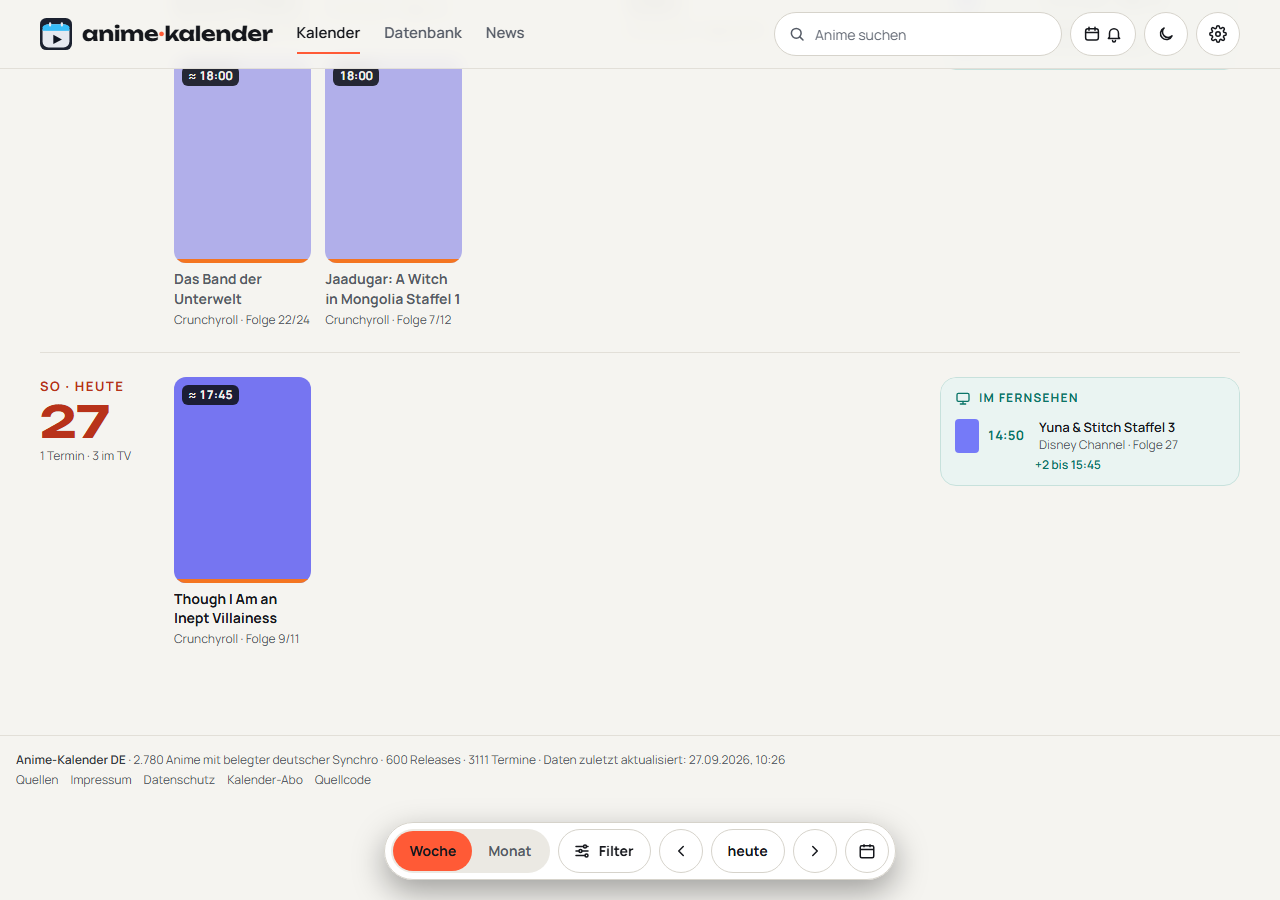
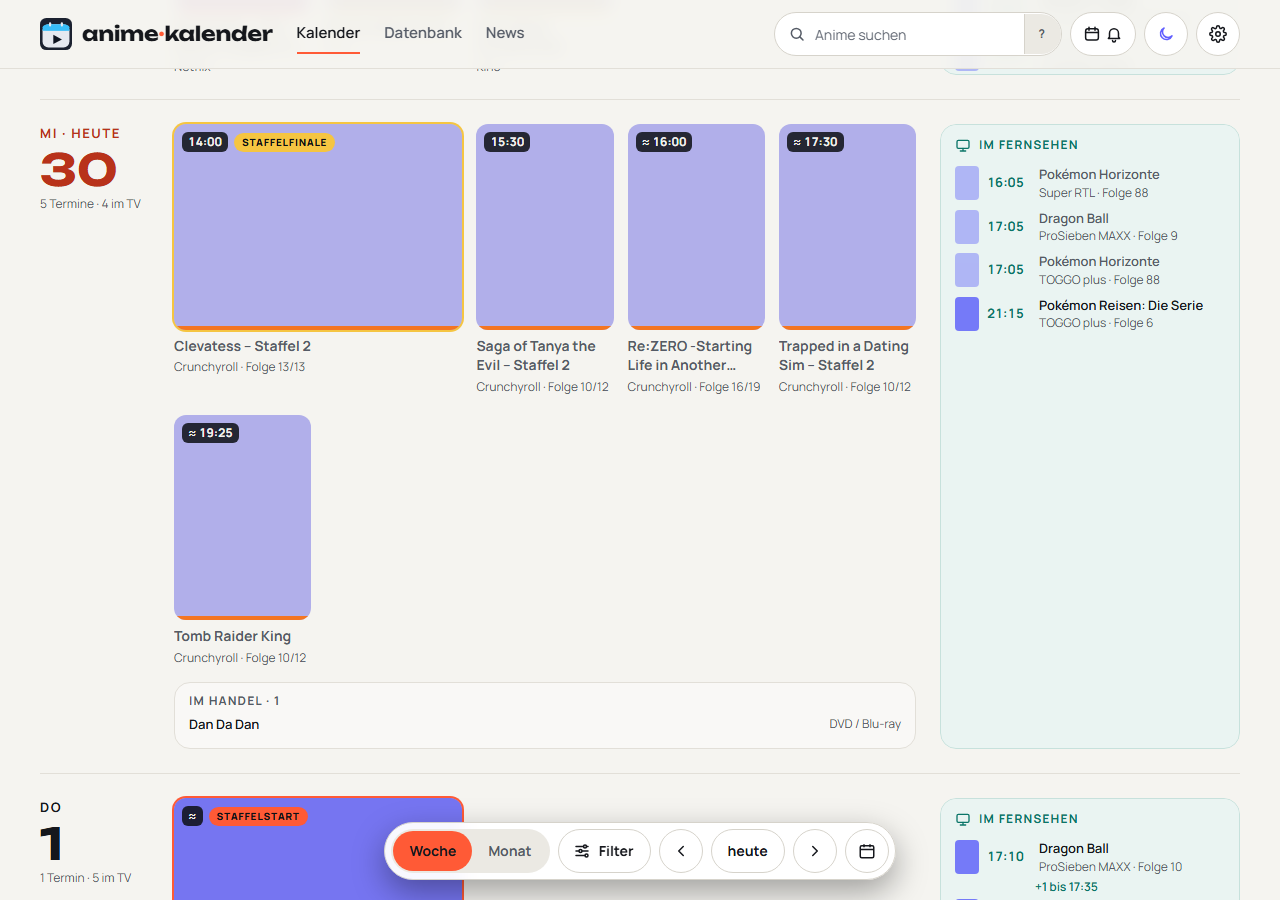
feat(woche): Disc-Termine als kompakter Bereich 'Im Handel' (Daniels Wahl A), TV-Kasten fuellt die Zeilenhoehe
- Disc-Termine (releaseType disc) sind ein eigener Topf in tageDerWoche und
  stehen nicht mehr als Poster im Raster; unter dem Raster eine kompakte Liste
  (Titel + DVD/Blu-ray) mit Kopf 'Im Handel - N'. Der Tageszaehler zaehlt sie
  nicht mehr als Termine.
- Der Fernseh-Kasten fuellt jetzt wirklich die Zeilenhöhe (h-full im absolut
  positionierten Rahmen), waechst also mit, wenn die Mittelspalte waechst.
- Zwei Prototypen (A kompakte Liste, D gedaempfte Poster) wurden gerendert und
  Daniel vorgelegt; er waehlte A. Bilder docs/woche-im-handel*.png.
- Wissen in docs/wissen/datensatz.md nachgezogen.

diff --git a/web/src/components/WeekView.tsx b/web/src/components/WeekView.tsx
@@ -10,7 +10,7 @@ import { buendeleTermine } from '../lib/buendel.ts'
 import { gesehenLesen, neuesteErschienen, neuSeitGesehen } from '../lib/gesehen.ts'
 import { PosterKarte, type KartenArt } from './kalender/PosterKarte.tsx'
 import { TvKasten } from './kalender/TvKasten.tsx'
-import { zaehlung } from './kalender/Marken.tsx'
+import { anbieterUndFolge, zaehlung } from './kalender/Marken.tsx'
 
 /** Ohne Uhrzeit hinter alles mit — ziffernbasiert, damit jede Kollation es hinten einsortiert. */
 const OHNE_UHRZEIT = '99:99'
@@ -18,11 +18,15 @@ const OHNE_UHRZEIT = '99:99'
 export interface Tag {
   date: string
   stream: ReleaseEvent[]
+  /** Disc-Termine — eigener Topf (Prototyp 30.09.2026). */
+  disc: ReleaseEvent[]
   tv: ReleaseEvent[]
   /** Für den Sprung zu heute: Streaming-Termine mit und ohne Uhrzeit. */
   timed: ReleaseEvent[]
   untimed: ReleaseEvent[]
 }
+
+
 
 function nachZeit(a: ReleaseEvent, b: ReleaseEvent): number {
   return (a.time ?? OHNE_UHRZEIT).localeCompare(b.time ?? OHNE_UHRZEIT) || a.name.localeCompare(b.name, 'de')
@@ -34,10 +38,13 @@ export function tageDerWoche(events: ReleaseEvent[], monday: string): Tag[] {
   return Array.from({ length: 7 }, (_, i) => {
     const date = addDays(monday, i)
     const alle = (byDate.get(date) ?? []).slice().sort(nachZeit)
-    const stream = alle.filter((e) => e.platform !== 'tv')
+    /* Disc-Termine sind eine eigene Sorte: weniger interessant, gehören nicht in den Stream-Zähler. */
+    const disc = alle.filter((e) => e.releaseType === 'disc')
+    const stream = alle.filter((e) => e.platform !== 'tv' && e.releaseType !== 'disc')
     return {
       date,
       stream,
+      disc,
       tv: alle.filter((e) => e.platform === 'tv'),
       timed: stream.filter((e) => e.time),
       untimed: stream.filter((e) => !e.time),
@@ -115,7 +122,10 @@ function TagZeile({
       ].join(' ')}
     >
       <TagKopf tag={tag} heute={heute} tvAn={p.tvAn} />
-      <PosterRaster tag={tag} p={p} heute={heute} now={now} landingId={landingId} landingRef={landingRef} />
+      <div className="flex min-w-0 flex-col gap-4">
+        <PosterRaster tag={tag} p={p} heute={heute} now={now} landingId={landingId} landingRef={landingRef} />
+        <DiscKasten termine={tag.disc} hidden={p.hidden} onOpen={p.onOpen} />
+      </div>
       {zeigeTv && (
         <div className="relative lg:min-h-0">
           <div className="lg:absolute lg:inset-0 lg:overflow-y-auto lg:rounded-2xl">
@@ -174,7 +184,7 @@ function PosterRaster({
   const gruppen = buendeleTermine(tag.stream, (ev) => !!ev.verpasst || !!art(ev))
   return (
     <div className="grid grid-cols-2 content-start gap-x-3 gap-y-5 sm:grid-cols-[repeat(auto-fill,minmax(128px,1fr))] sm:gap-x-3.5 lg:min-h-[250px]">
-      {tag.stream.length === 0 && (p.gefiltert || !tag.tv.length) && (
+      {tag.stream.length === 0 && tag.disc.length === 0 && (p.gefiltert || !tag.tv.length) && (
         <p className="col-span-full pt-1 text-sm text-ak-sehr-leise">{t(p.gefiltert ? 'kal.nichtsGefiltert' : 'kal.keinTermin')}</p>
       )}
       {gruppen.map(([ev, ...weitere]) => {
@@ -197,6 +207,47 @@ function PosterRaster({
           />
         )
       })}
+    </div>
+  )
+}
+
+/**
+ * **„Im Handel" als kompakte Liste** (30.09.2026, Daniels Wahl) — wie „Im Fernsehen", nur unter dem
+ * Raster der Mittelspalte statt in einer eigenen Spalte. Disc-Termine werden damit ruhig, ohne mit
+ * dem Fernseh-Kasten um Platz zu kämpfen; der Kopf zählt sie nicht mehr als Streaming-Termine.
+ */
+function DiscKasten({
+  termine,
+  hidden,
+  onOpen,
+}: {
+  termine: ReleaseEvent[]
+  hidden: Set<number>
+  onOpen: (slug: string, date: string) => void
+}) {
+  const { t } = useLang()
+  if (!termine.length) return null
+  return (
+    <div className="flex flex-col gap-0.5 rounded-2xl border border-ak-linie bg-ak-flaeche/40 px-3.5 py-2.5">
+      <h3 className="flex items-center gap-2 text-xs font-bold tracking-[0.1em] text-ak-leise uppercase">
+        {t('card.inStores')} · {termine.length}
+      </h3>
+      <ul className="flex flex-col">
+        {termine.map((ev) => (
+          <li key={ev.id}>
+            <button
+              type="button"
+              onClick={() => onOpen(ev.releaseSlug, ev.date)}
+              className="flex w-full cursor-pointer items-center gap-2 rounded-lg py-1 text-left text-[13px] transition hover:bg-ak-flaeche-2"
+            >
+              <span className="min-w-0 flex-1 truncate font-semibold text-ak-text">
+                {hidden.has(ev.titleId) ? <span className="text-ak-sehr-leise italic">{ev.name}</span> : ev.name}
+              </span>
+              <span className="shrink-0 text-xs text-ak-leise">{anbieterUndFolge(ev, t)}</span>
+            </button>
+          </li>
+        ))}
+      </ul>
     </div>
   )
 }

diff --git a/web/src/components/kalender/TvKasten.tsx b/web/src/components/kalender/TvKasten.tsx
@@ -39,7 +39,7 @@ export function TvKasten({
   )
   if (kompakt) return liste
   return (
-    <div className="flex flex-col gap-0.5 rounded-2xl border border-ak-tv-rand bg-ak-tv-grund px-3.5 py-3">
+    <div className="flex h-full flex-col gap-0.5 rounded-2xl border border-ak-tv-rand bg-ak-tv-grund px-3.5 py-3">
       {/* Klebt oben, wenn der Kasten in Zeilenhöhe rollt — sonst verschwände mit dem Kopf auch der Hinweis, was hier steht. */}
       <h3 className="sticky top-0 z-[1] -mx-3.5 -mt-3 flex items-center gap-2 rounded-t-2xl bg-ak-tv-grund px-3.5 pt-3 pb-1.5 text-xs font-bold uppercase tracking-[0.1em] text-ak-tv">
         <FernsehZeichen groesse={16} />

diff --git a/docs/wissen/datensatz.md b/docs/wissen/datensatz.md
@@ -358,8 +358,12 @@ https://claude.ai/artifact/AEJUirTAgvme2kH4m8uHpH) und sie in zwei Runden kommen
   dort im Einstellungsdialog, sonst passte der Name nicht in die Leiste.
 - **Woche:** je Tag eine Zeile — Tag, Cover-Raster (`repeat(auto-fill, minmax(128px, 1fr))`, auf
   dem Handy genau zwei Spalten, immer in Zeitreihenfolge — `grid-flow-dense` würfelte sie durcheinander,
-  eine Lücke vor einer breiten Kachel wird hingenommen), rechts „Im Fernsehen“. Der TV-Kasten füllt absolut die Zeilenhöhe
-  und scrollt darin; bricht die Poster-Reihe um, wird er mit ihr höher.
+  eine Lücke vor einer breiten Kachel wird hingenommen), darunter **„Im Handel“** als kompakte Liste
+  (Titel + „DVD / Blu-ray“), rechts „Im Fernsehen“. **Disc-Termine sind seit dem 30.09.2026 kein
+  Poster im Raster mehr** (Daniels Wahl nach zwei Prototypen): Sie sind zu viele und zu wenig
+  interessant, und als Liste kämpfen sie nicht mit dem Fernseh-Kasten um Platz. Der TV-Kasten füllt
+  die Zeilenhöhe (`h-full` im absolut positionierten Rahmen) und scrollt darin; wächst die
+  Mittelspalte durch den Disc-Kasten, wächst er mit. Bilder: `docs/woche-im-handel*.png`.
 - **Staffelstart und Staffelfinale** nehmen zwei Spalten ein, das Cover füllt die Breite, der Text
   steht wie bei jeder Kachel darunter (Daniel: kein geteiltes Cover/Text). `istStaffelfinale()`:
   wöchentlich, nicht TV, nicht `available-from`, `episode === episodeCount`, kein
@@ -369,9 +373,10 @@ https://claude.ai/artifact/AEJUirTAgvme2kH4m8uHpH) und sie in zwei Runden kommen
   per Klick) die Ausstrahlungen. Ein Klick auf die Tageszahl springt in der Woche zu diesem Tag
   (`lib/ziel-tag.ts`). Unter `sm` ist die ganze Zelle ein Knopf, der den Tag aufklappt — Cover
   von 22 px wären kein Touch-Ziel.
-- **Zählung** je Tag und Monat: „8 Termine · 9 im TV“ (`zaehlung()`); Termine sind alles außer
-  Fernsehen, also auch Disc und Kino. Eine Null entfällt, der leere Tag sagt „Kein Termin an diesem
-  Tag.“, ein Tag nur mit Fernsehen sagt nichts extra — der Kasten daneben sagt es.
+- **Zählung** je Tag und Monat: „8 Termine · 9 im TV“ (`zaehlung()`); Termine sind Streaming und
+  Kino — **nicht Disc** (die stehen im eigenen Kasten, seit 30.09.2026) und nicht Fernsehen. Eine
+  Null entfällt, der leere Tag sagt „Kein Termin an diesem Tag.“, ein Tag nur mit Fernsehen sagt
+  nichts extra — der Kasten daneben sagt es.
 - **Tailwind v4 erzeugt `pt-[calc((100%-0.75rem)*0.75)]` nicht — lautlos, ohne Warnung** (gemessen
   26.09.2026 im gebauten CSS). Verschachtelte `calc` stehen deshalb als eigene Klasse in `styles.css`
   (`.ak-breit-cover`); nach jeder arbiträren Klasse im gebauten CSS nachsehen, ob sie angekommen ist.
